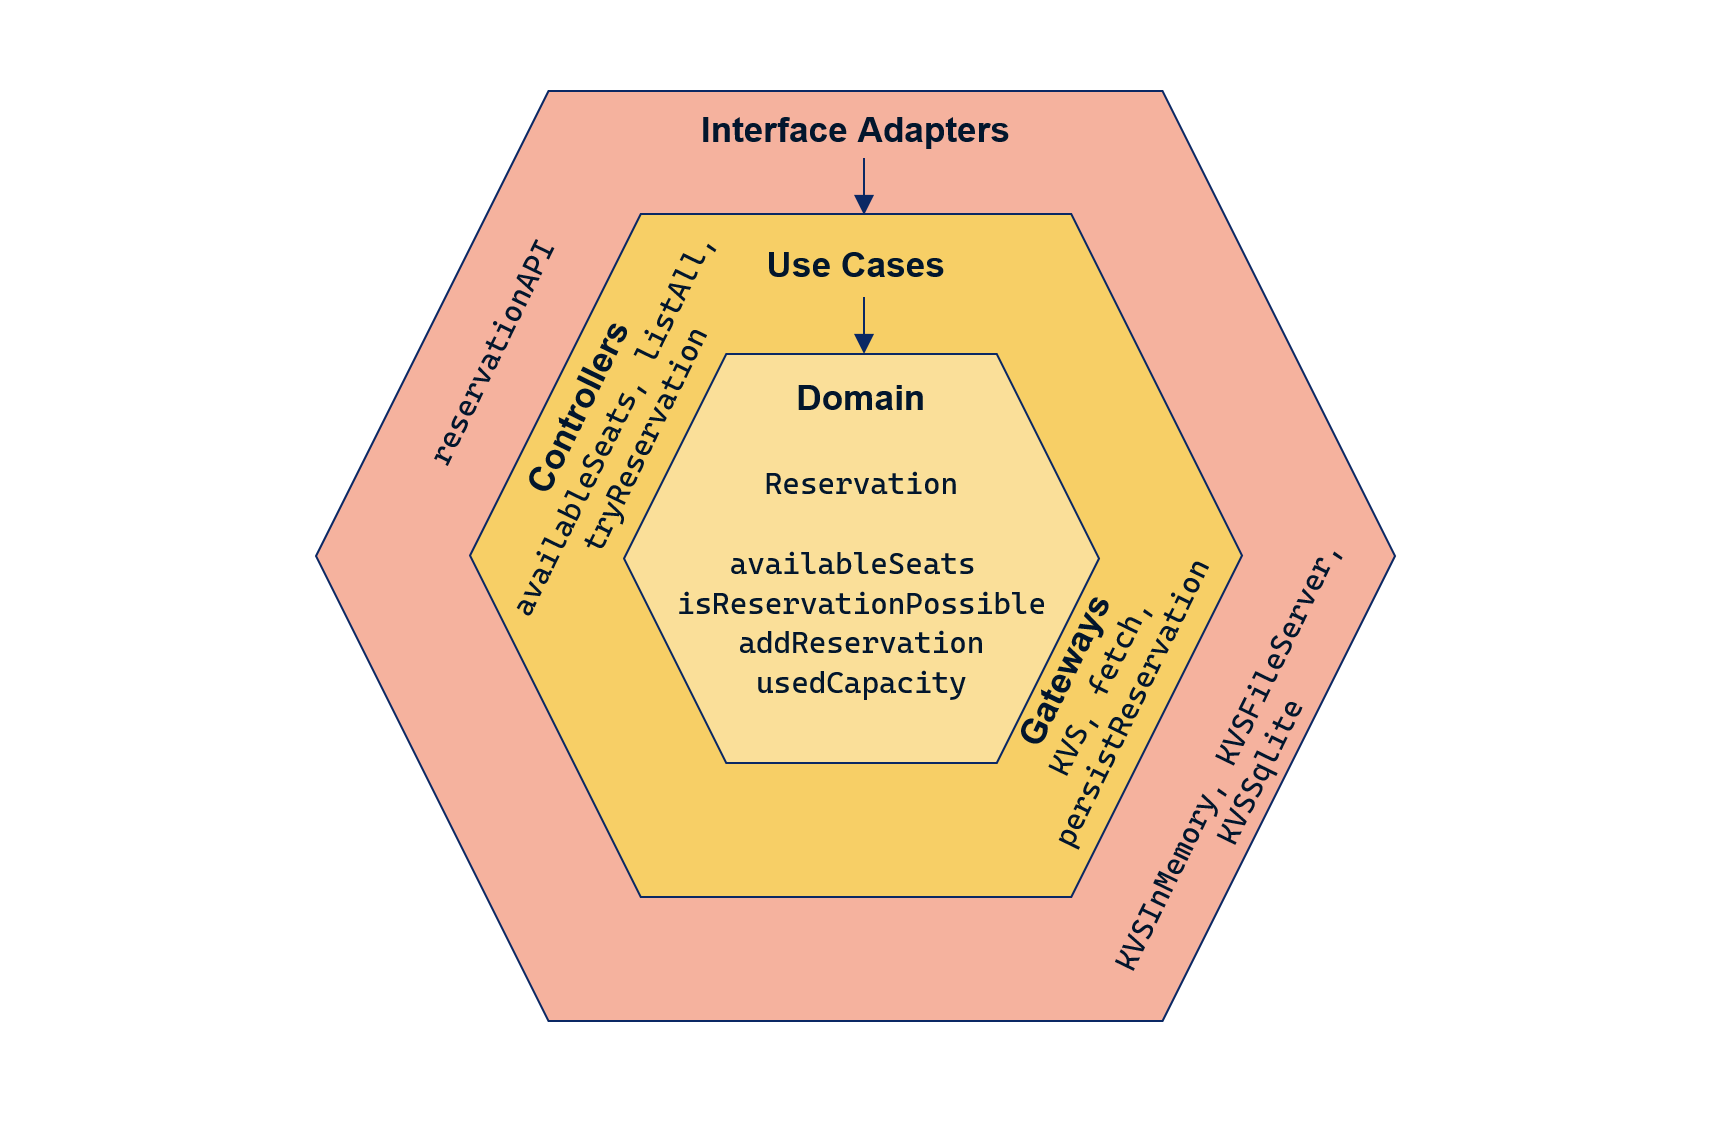
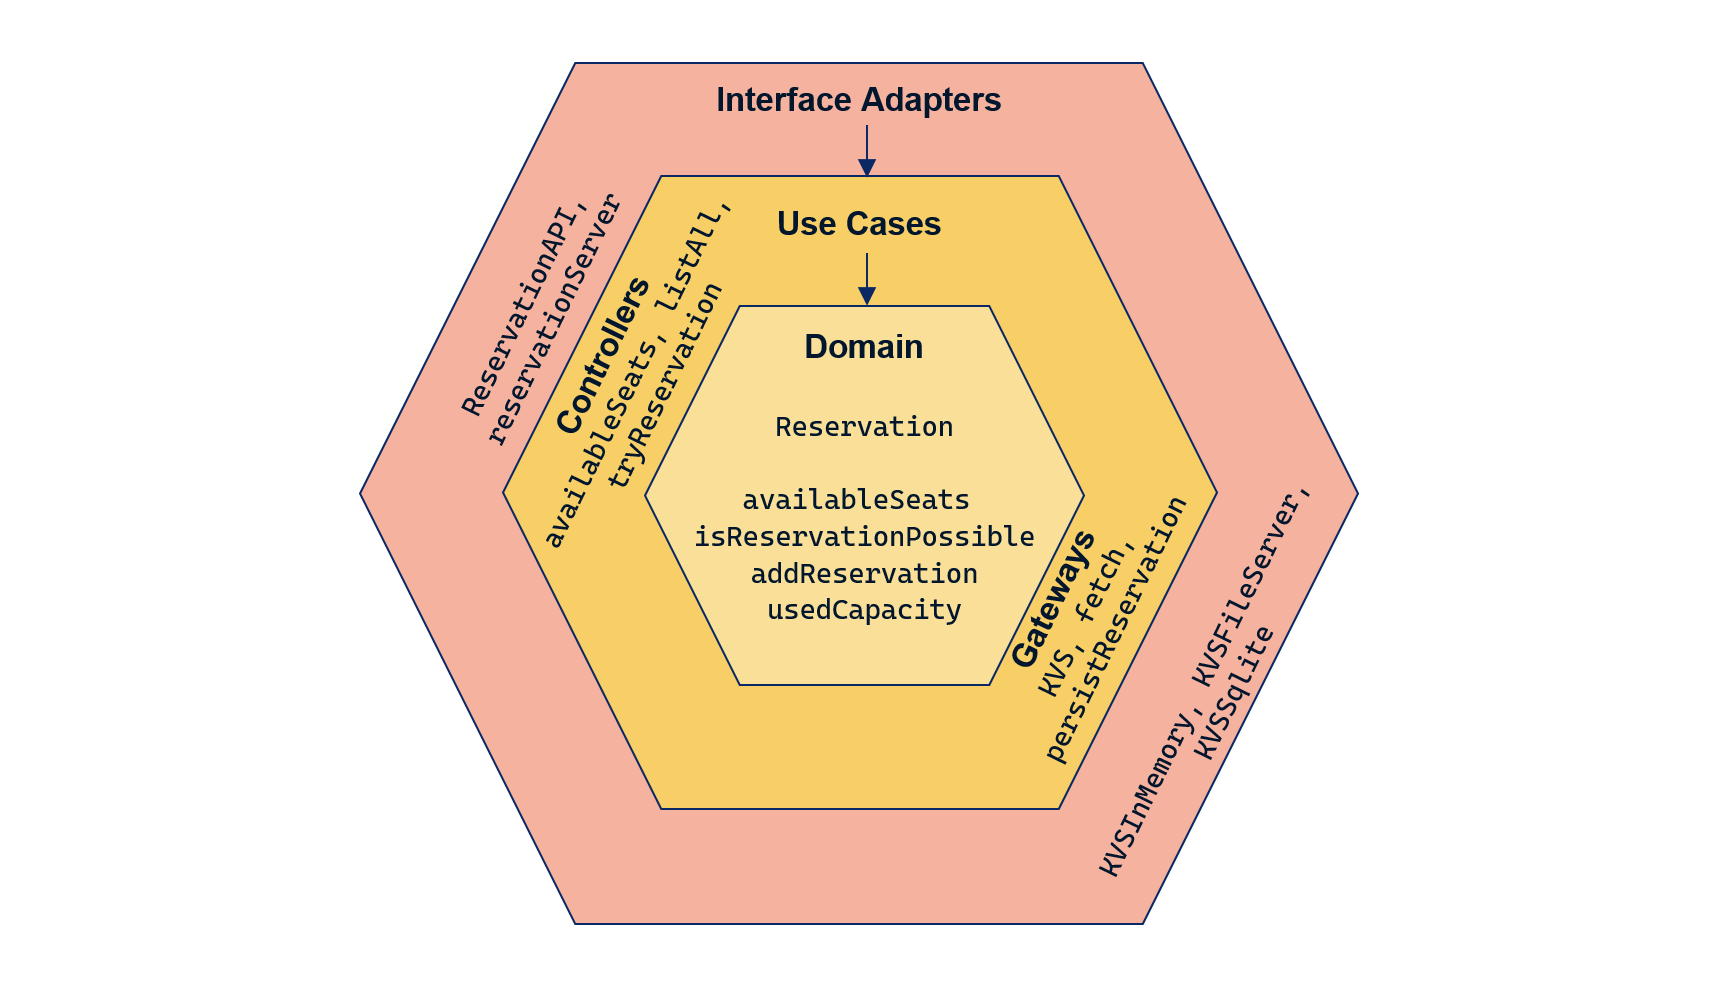
some gardening...

diff --git a/README.md b/README.md
@@ -634,7 +634,7 @@ type ReservationAPI =
 
 Next we have to create the connection between the declared routes and the actual business logic. This will be our
 REST service implementation. In our case we simply delegate to the use case controller functions.
-But off course we also implement stuff like validation here:
+Off course, we might also implement additional functionality here like validation:
 
 ```haskell
 import qualified UseCases.ReservationUseCase as UC 
@@ -652,7 +652,13 @@ reservationServer =
 
 That's all!
 
-In the following diagram, we
+In the following diagram, we now see the third layer. Again, the Interface Adapters layer may only reference code from the
+inner layers.
+To the right we see the `ReservationAPI` and its `reservationServer` implementation, which we just explored. They interface with
+the use case controller functions like `availableSeats`, `listAll`, etc.
+
+To the left we see the interpretations of the `KVS` effect (which was defined in the use case layer): `KVSInMemory`, 
+`KVSSqlite` (and a third one `KVSFileServer`, a file based implementation which you might explore on your own).
 
 ![Interface Adapters layer](interface-adapters.png)
 
